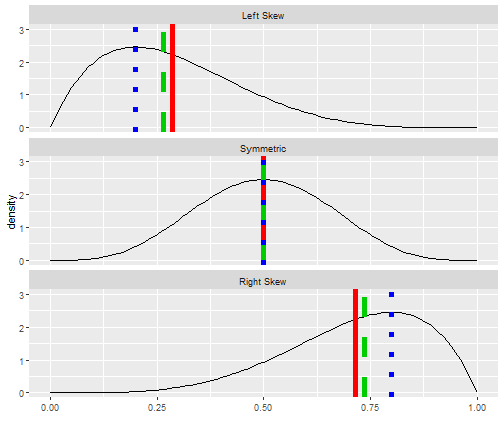
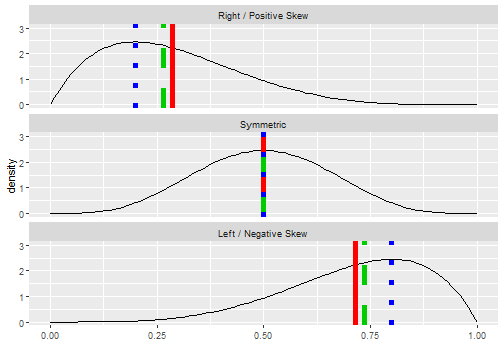
Correction to skew definition

diff --git a/slides/w04-L07/w04-L07.html b/slides/w04-L07/w04-L07.html
@@ -108,8 +108,11 @@ class: middle
 
 .pull-right[
 
-![](w04-L07_files/figure-html/location-1.png)&lt;!-- --&gt;
+&lt;img src="w04-L07_files/figure-html/location-1.png" style="display: block; margin: auto;" /&gt;
 
+.small[
+ Note: Skewness indicates the direction of the longer tail.
+ ]
 ]
 
 
